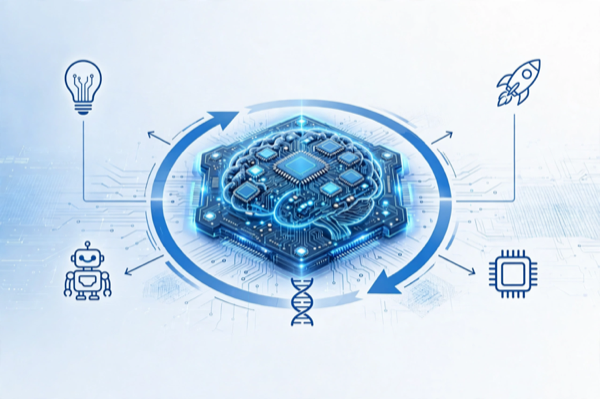
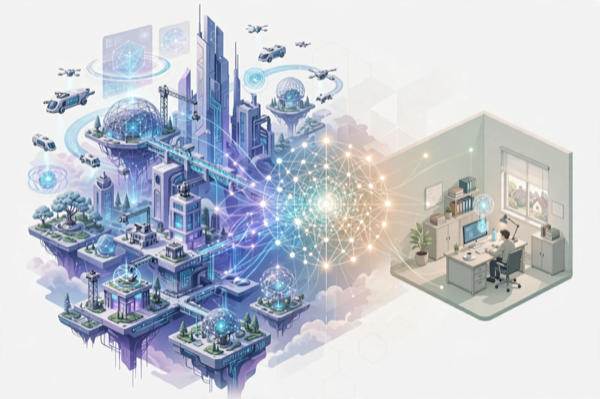
논점 3·5 일러스트 교체, 이미지 출처 표기 갱신

diff --git a/index.html b/index.html
@@ -272,7 +272,7 @@
         </div>
       </div>
       <div class="issue">
-        <img src="images/issue-3.png" alt="AI 회로로 그려진 뇌와 혁신 아이콘들을 표현한 일러스트">
+        <img src="images/issue-3.png" alt="개인이 신경망으로 거대한 미래 도시와 연결된 모습을 표현한 일러스트">
         <div class="ic">
           <div class="n">논점 3</div>
           <h5>"극단적"도 "점진적"도 양쪽에서 비판받는다</h5>
@@ -288,7 +288,7 @@
         </div>
       </div>
       <div class="issue">
-        <img src="images/issue-5.png" alt="사람과 신경망으로 연결된 미래 도시를 표현한 일러스트">
+        <img src="images/issue-5.png" alt="AI 회로로 그려진 뇌와 혁신 아이콘들이 순환하는 모습을 표현한 일러스트">
         <div class="ic">
           <div class="n">논점 5</div>
           <h5>AI가 기술 발전 자체를 더 빠르게 만들면?</h5>
@@ -304,7 +304,7 @@
   </div>
 
   <div class="note">
-    <b>작성 안내:</b> 이 문서는 원문 페이지(2026.09, v1.0)를 한국어로 풀어 쓴 해설·요약입니다. 원문의 문장을 그대로 옮긴 번역이 아니며, 원문의 인터랙티브 기능(슬라이더·대화형 차트)은 포함하지 않았습니다. <b>도표 5개는 원문에 공개된 같은 수치를 가지고 이 문서를 위해 새로 그린 것</b>이고, 10장의 <b>일러스트 5장은 작성자가 별도로 준비한 이미지</b>입니다. 수치의 정확한 근거는 원문 페이지와 기술 보고서에서 확인하시기 바랍니다.
+    <b>작성 안내:</b> 이 문서는 원문 페이지(2026.09, v1.0)를 한국어로 풀어 쓴 해설·요약입니다. 원문의 문장을 그대로 옮긴 번역이 아니며, 원문의 인터랙티브 기능(슬라이더·대화형 차트)은 포함하지 않았습니다. <b>도표 5개는 원문에 공개된 같은 수치를 가지고 이 문서를 위해 새로 그린 것</b>이고, 10장의 <b>일러스트 5장은 생성형 AI로 만든 이미지</b>입니다. 수치의 정확한 근거는 원문 페이지와 기술 보고서에서 확인하시기 바랍니다.
   </div>
 
   <div class="foot">
